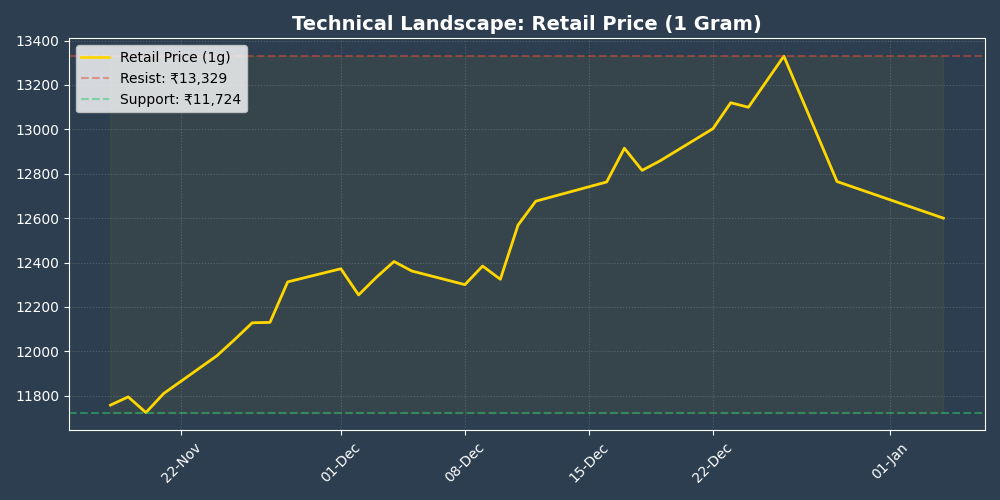
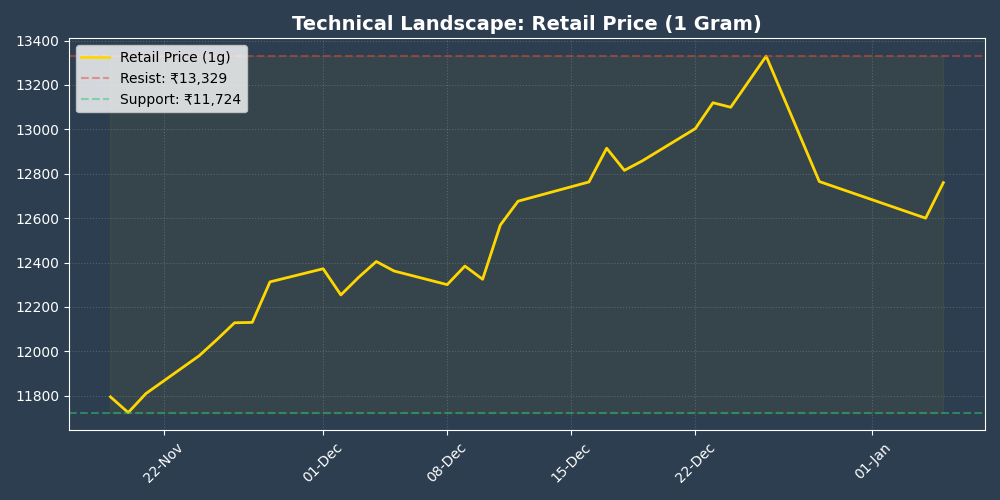
ETL Pipeline: Daily Sync [2026-01-05]

diff --git a/README.md b/README.md
@@ -8,8 +8,8 @@
 
 | 💎 Retail (1g) | 🎯 Forecast (1g) | 🏛 Industry (10g) |
 | :---: | :---: | :---: |
-| **₹12,600** | `₹12,753` | **₹126,000** |
-| 🔻 ₹164 | 🔺 ₹153 | BULLISH 🟢 |
+| **₹12,760** | `₹12,824` | **₹127,600** |
+| 🔺 ₹160 | 🔺 ₹64 | BULLISH 🟢 |
 
 </div>
 
@@ -20,9 +20,9 @@
 
 | Timeline | 💎 Price (1g) | 🏛 Price (10g) | Change (1g) | Status |
 | :--- | :---: | :---: | :---: | :--- |
-| **Yesterday** | ₹12,764 | ₹127,649 | - | Historical |
-| **Today** | **₹12,600** | **₹126,000** | 🔻 ₹164 | **Actual** |
-| **Tomorrow** | `₹12,753` | `₹127,537` | 🔺 ₹153 | *Forecast* |
+| **Yesterday** | ₹12,600 | ₹126,000 | - | Historical |
+| **Today** | **₹12,760** | **₹127,600** | 🔺 ₹160 | **Actual** |
+| **Tomorrow** | `₹12,824` | `₹128,243` | 🔺 ₹64 | *Forecast* |
 
 ---
 
@@ -32,7 +32,7 @@
 
 * 🔴 **Ceiling:** **₹13,329** (1g)
 * 🟢 **Floor:** **₹11,724** (1g)
-* 📍 **Range:** Price is **54%** of the way to the top.
+* 📍 **Range:** Price is **64%** of the way to the top.
 
 ---
 
@@ -49,17 +49,17 @@
 
 | Indicator | Status | Meter | Interpretation |
 | :--- | :--- | :--- | :--- |
-| **RSI** | **55.3** | `███████████░░░░░░░░░` | Hold |
-| **Sentiment** | **-0.03** | `█████████░░░░░░░░░░░` | Neutral |
+| **RSI** | **60.2** | `████████████░░░░░░░░` | Hold |
+| **Sentiment** | **-0.04** | `█████████░░░░░░░░░░░` | Neutral |
 | **Volatility** | **Stable 🌊** | `------` | Market Energy |
 
 ---
 
 ### 📰 Sentinel Intelligence
 * **Market Mood:** **NEUTRAL ⚪**
-* **FXStreet:** *"Gold price in India: Rates on January 2 - FXStreet"*
-* **india.com:** *"Today Gold, Silver Rate January 04: Check 18, 22, 24 carat Gold prices in Chennai, Mumbai, Delhi, Kolkata - india.com"*
-* **livemint.com:** *"Gold-silver ratio jumps to 60; is it the right time to invest in gold? - livemint.com"*
+* **The Indian Express:** *"Gold Today Rate, January 5: Check 18, 22 and 24 carat gold prices Chennai, Mumbai, Delhi, Kolkata and other cities - The Indian Express"*
+* **CNBC TV18:** *"Why gold and silver are rising in India amid US-Venezuela tensions - CNBC TV18"*
+* **ts2.tech:** *"Silver price tumbles from record as India’s gold rate drops — experts’ 2026 playbook - ts2.tech"*
 
 ---
-*Last Updated: 2026-01-04 20:02:34 IST*
+*Last Updated: 2026-01-05 18:17:42 IST*
